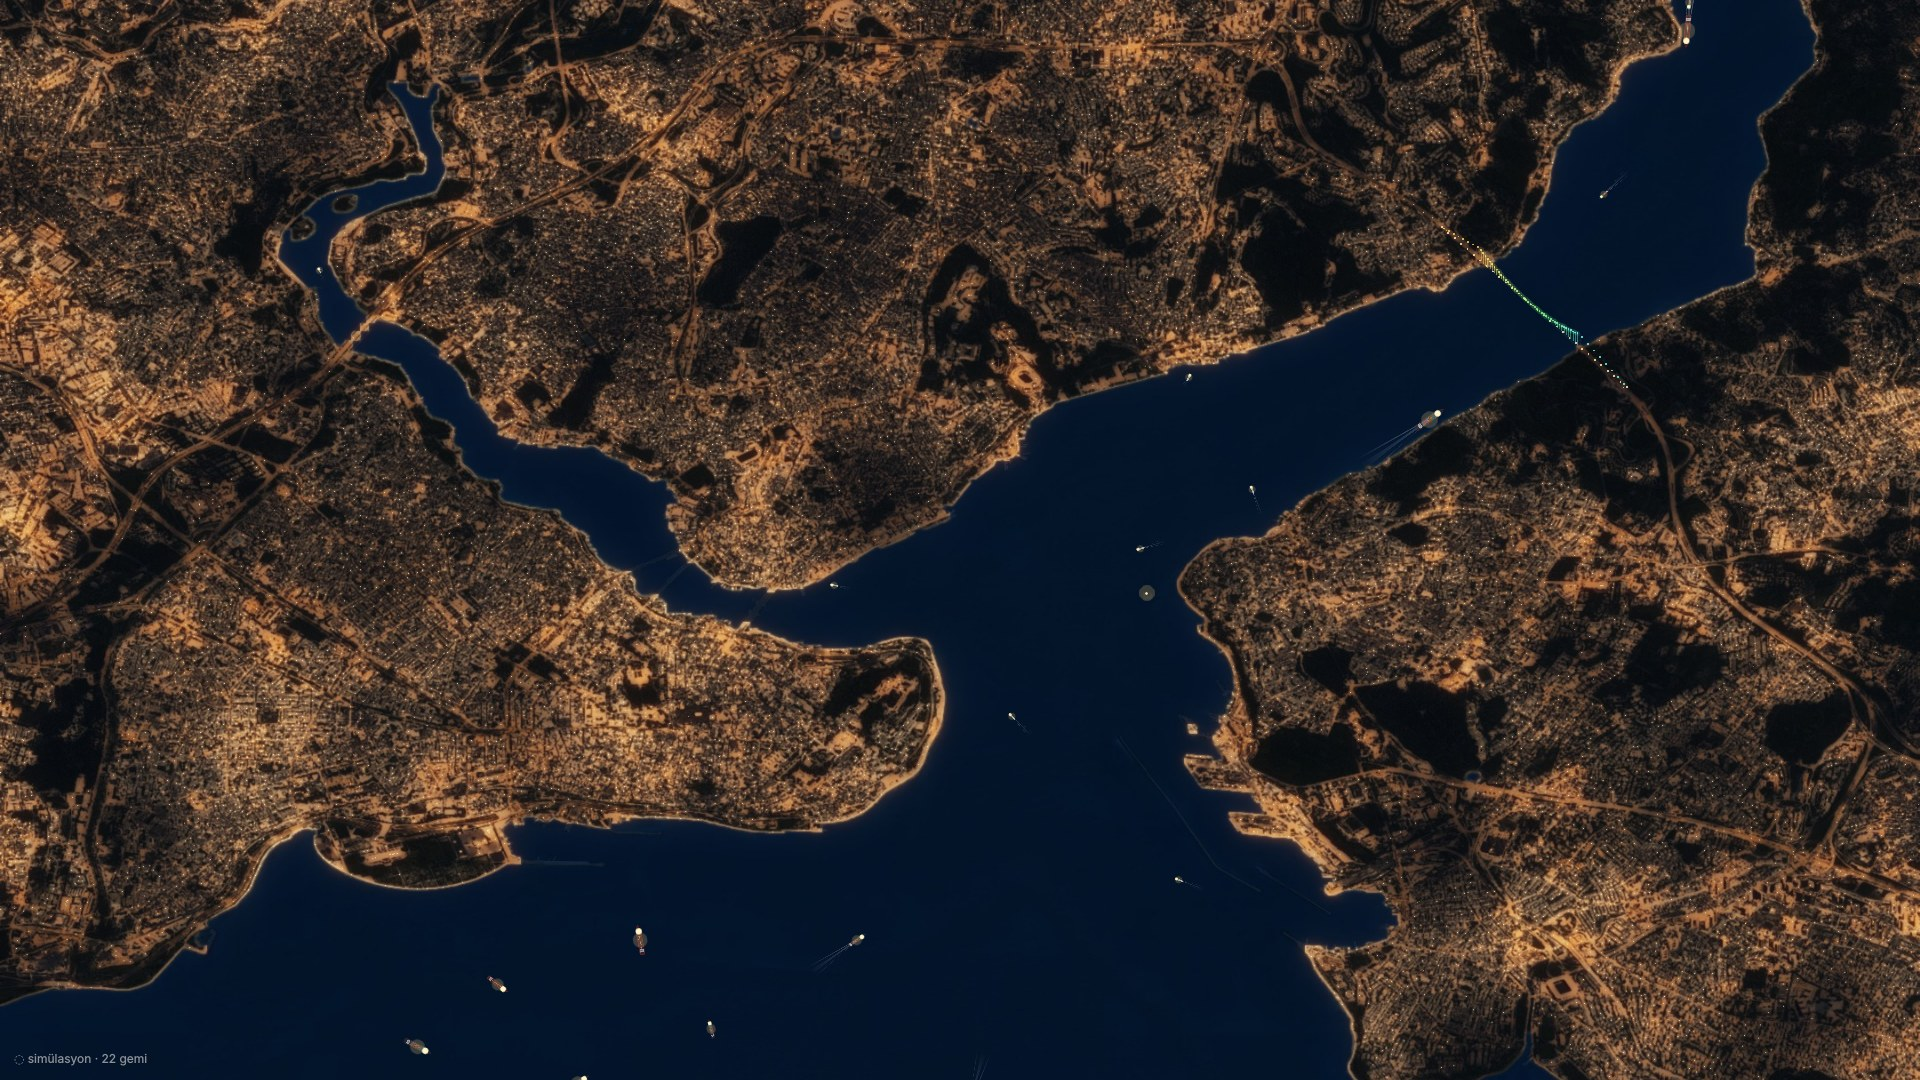
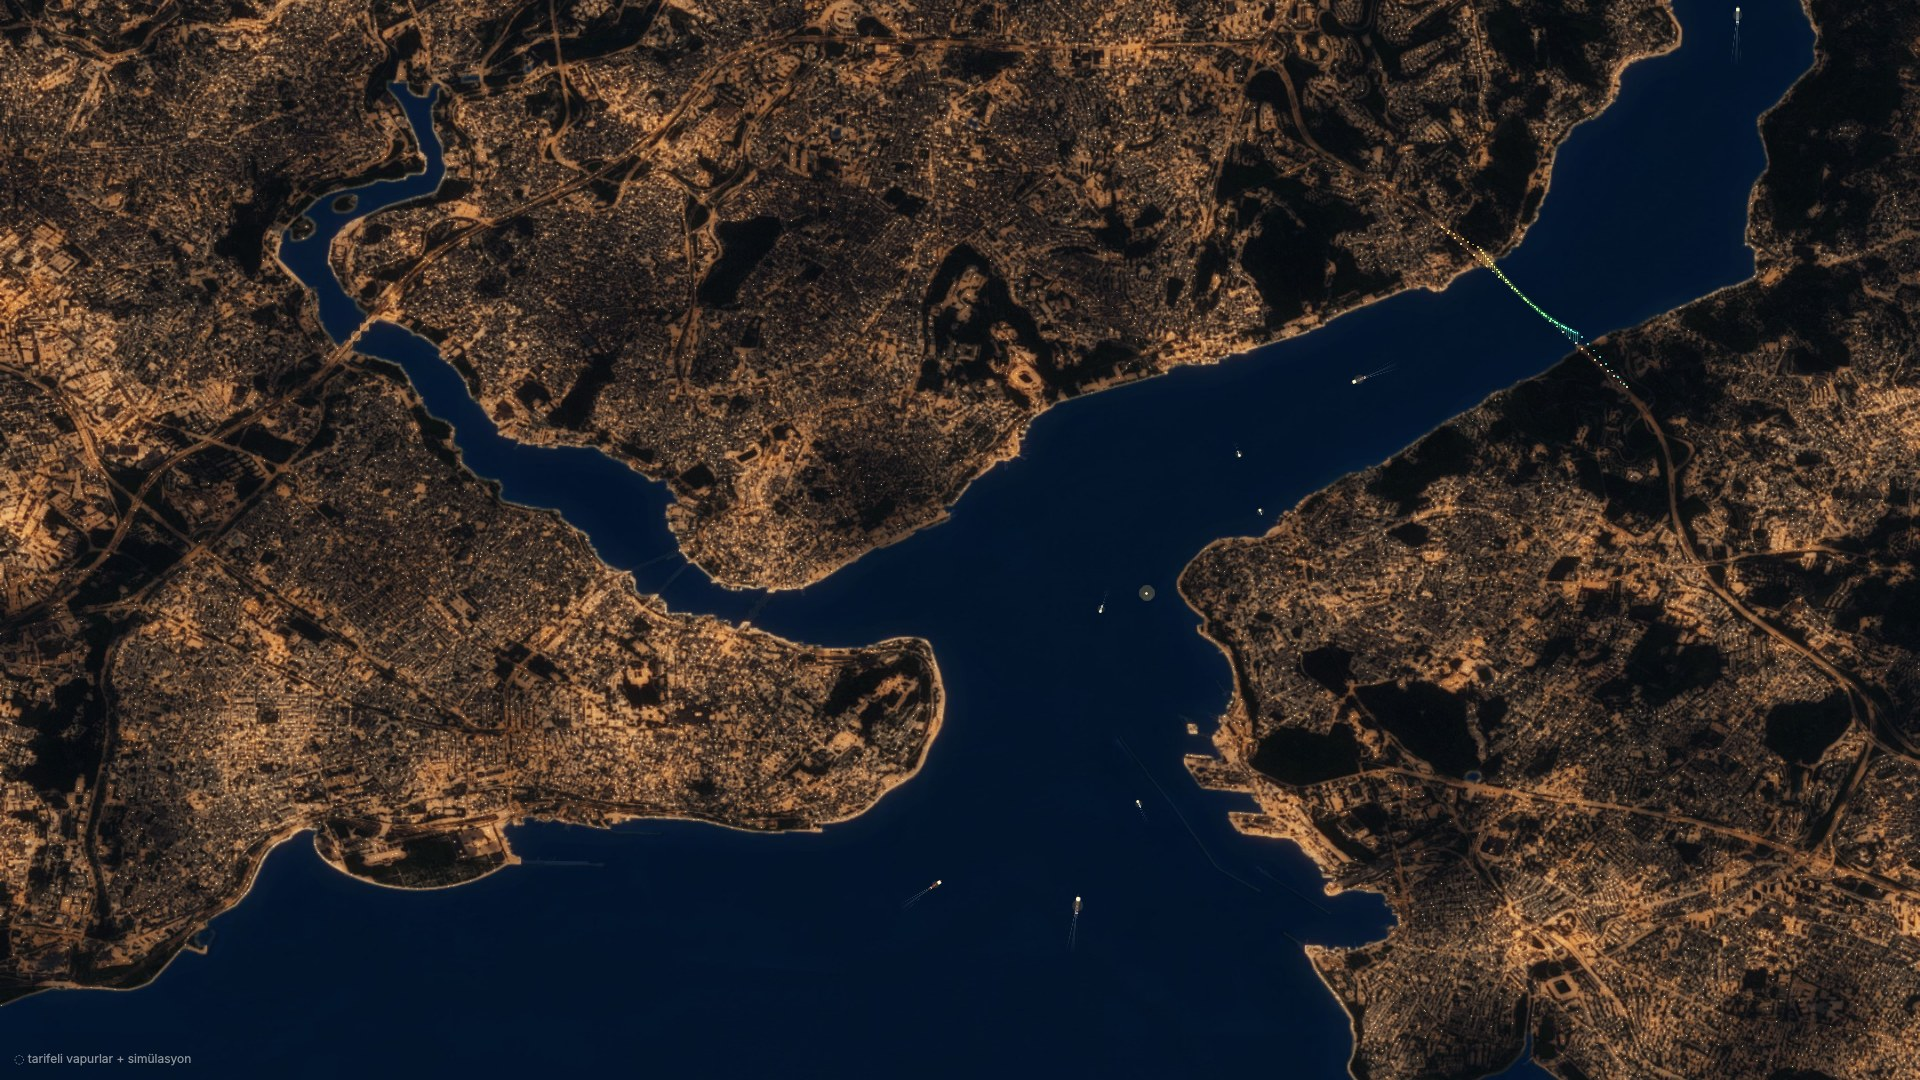
Güneşe göre gece geçişi, saate göre sönen şehir ışıkları

diff --git a/plasmoid/contents/ui/Scene.qml b/plasmoid/contents/ui/Scene.qml
@@ -1,5 +1,6 @@
 import QtQuick
 import "geo.js" as Geo
+import "sun.js" as Sun
 
 // Saf QtQuick sahnesi: Plasma'dan bagimsiz, test edilebilir.
 Item {
@@ -26,17 +27,17 @@ Item {
     property var ships: ({})          // id -> Ship item
     property real serverOffset: 0     // localNow - serverNow (sn)
 
-    // gece/gunduz: 0 = gunduz, 1 = tam gece
+    // gece/gunduz: 0 = gunduz, 1 = tam gece (gunesin gercek yuksekligine gore)
     property real night: 0
+    property real eveningOn: 1   // aksam isiklari (gece yarisindan sonra soner)
+    property real lateOn: 1      // gec saat isiklari
+    property var debugDate: null // test icin sabit saat
     function updateNight() {
+        var d = debugDate ? debugDate : new Date()
         if (!nightTint) { night = 0; return }
-        var d = new Date(), h = d.getHours() + d.getMinutes() / 60
-        // Istanbul icin kaba gun dogumu/batimi: 06:30-19:00, 1 saatlik gecis
-        var n = 0
-        if (h < 5.5 || h > 20) n = 1
-        else if (h < 6.5) n = 6.5 - h
-        else if (h > 19) n = h - 19
-        night = Math.max(0, Math.min(1, n))
+        night = Sun.nightFactor(d)
+        eveningOn = Sun.eveningLights(d)
+        lateOn = Sun.lateLights(d)
     }
 
     Rectangle { anchors.fill: parent; color: "#0d3b55" }
@@ -67,6 +68,21 @@ Item {
             asynchronous: true
             cache: false
             smooth: true
+        }
+        // saate gore sonen bina isiklari
+        Image {
+            anchors.fill: parent
+            source: scene.night > 0.01 ? Qt.resolvedUrl("../images/lights_evening.png") : ""
+            opacity: scene.night * scene.eveningOn
+            visible: opacity > 0.01
+            asynchronous: true; cache: false; smooth: true
+        }
+        Image {
+            anchors.fill: parent
+            source: scene.night > 0.01 ? Qt.resolvedUrl("../images/lights_late.png") : ""
+            opacity: scene.night * scene.lateOn
+            visible: opacity > 0.01
+            asynchronous: true; cache: false; smooth: true
         }
         // Kiz Kulesi
         Rectangle {
@@ -155,6 +171,6 @@ Item {
 
     Timer { interval: scene.pollMs; running: scene.running; repeat: true; triggeredOnStart: true; onTriggered: scene.poll() }
     Timer { interval: Math.round(1000 / Math.max(1, scene.fps)); running: scene.running; repeat: true; onTriggered: scene.frame() }
-    Timer { interval: 60000; running: true; repeat: true; triggeredOnStart: true; onTriggered: scene.updateNight() }
+    Timer { interval: 30000; running: true; repeat: true; triggeredOnStart: true; onTriggered: scene.updateNight() }
     onNightTintChanged: updateNight()
 }

diff --git a/plasmoid/contents/ui/sun.js b/plasmoid/contents/ui/sun.js
@@ -1,0 +1,55 @@
+.pragma library
+// Gunes yuksekligi (NOAA yaklasimi) ve saate gore isik programi. Istanbul: 41.02 K, 28.98 D
+var LAT = 41.02, LON = 28.98;
+
+function sunElevation(date) {
+    var rad = Math.PI / 180;
+    var y0 = Date.UTC(date.getUTCFullYear(), 0, 1);
+    var hourUTC = date.getUTCHours() + date.getUTCMinutes() / 60 + date.getUTCSeconds() / 3600;
+    var doy0 = Math.floor((date.getTime() - y0) / 86400000);
+    var g = 2 * Math.PI / 365 * (doy0 + (hourUTC - 12) / 24);
+    var eqt = 229.18 * (0.000075 + 0.001868 * Math.cos(g) - 0.032077 * Math.sin(g)
+                        - 0.014615 * Math.cos(2 * g) - 0.040849 * Math.sin(2 * g));
+    var decl = 0.006918 - 0.399912 * Math.cos(g) + 0.070257 * Math.sin(g) - 0.006758 * Math.cos(2 * g)
+             + 0.000907 * Math.sin(2 * g) - 0.002697 * Math.cos(3 * g) + 0.00148 * Math.sin(3 * g);
+    var tst = hourUTC * 60 + eqt + 4 * LON;
+    var ha = (tst / 4 - 180) * rad;
+    var cz = Math.sin(LAT * rad) * Math.sin(decl) + Math.cos(LAT * rad) * Math.cos(decl) * Math.cos(ha);
+    return 90 - Math.acos(Math.max(-1, Math.min(1, cz))) / rad;
+}
+
+// 0 = gunduz, 1 = gece. Gunes ufkun 1 derece ustunden sivil alacakaranliga (-6) kadar yumusak gecis.
+function nightFactor(date) {
+    var e = sunElevation(date);
+    return Math.max(0, Math.min(1, (1 - e) / 7));
+}
+
+function lerp(t, t0, t1, v0, v1) {
+    if (t <= t0) return v0;
+    if (t >= t1) return v1;
+    return v0 + (v1 - v0) * (t - t0) / (t1 - t0);
+}
+
+// Gece zaman ekseni: 12:00 -> 12 ... 23:59 -> 24, 03:00 -> 27, 06:00 -> 30
+// Cuma ve Cumartesi geceleri sehir 1 saat gec yatar.
+function nightClock(date) {
+    var h = date.getHours() + date.getMinutes() / 60;
+    var t = h < 12 ? h + 24 : h;
+    var eveningDay = h < 12 ? (date.getDay() + 6) % 7 : date.getDay();   // 0=Paz ... 5=Cum, 6=Cmt
+    var weekend = (eveningDay === 5 || eveningDay === 6);
+    return { t: t, shift: weekend ? 1 : 0 };
+}
+
+// Aksam isiklari (bina pencerelerinin cogu): 23:00'ten sonra soner, sabah 06:00 civari yeniden yanar
+function eveningLights(date) {
+    var c = nightClock(date), t = c.t - c.shift;
+    if (t < 29.5) return lerp(t, 23, 25.5, 1, 0.12);
+    return lerp(t, 29.5, 30.75, 0.12, 0.7);
+}
+
+// Gec saat isiklari: 00:30'dan sonra azalir, 03:00'te %30'a iner, sabah artar
+function lateLights(date) {
+    var c = nightClock(date), t = c.t - c.shift;
+    if (t < 29.5) return lerp(t, 24.5, 27, 1, 0.3);
+    return lerp(t, 29.5, 30.75, 0.3, 0.9);
+}

diff --git a/tools/prepare_images.py b/tools/prepare_images.py
@@ -2,7 +2,7 @@
 """
 Isometric Istanbul ekran goruntusunden duvar kagidi gorsellerini uretir:
   1) gomulu gemileri ve dumen sularini siler  -> bosphorus.jpg
-  2) sehir isikli gece surumunu olusturur     -> bosphorus_night.jpg
+  2) gece tabani + saate gore sonen isik katmanlari -> bosphorus_night.jpg, lights_evening.png, lights_late.png
 
 Kullanim:  python3 tools/prepare_images.py ekran_goruntusu.png
 Gereken:   pip install opencv-python numpy
@@ -110,26 +110,43 @@ def make_night(clean):
     sodium = np.array([0.08, 0.42, 1.00], np.float32)
     mixc = np.clip(0.35 + greyish * 0.5 + 0.4 * (n2 - 0.5), 0, 1)[...,None]
     col = mixc * sodium + (1 - mixc) * warm
-    E = m[...,None] * col * 1.35 + m_shore[...,None] * warm
-    # parlak noktalar: sokak isiginin yerel tepe noktalari
+    ws = np.clip(greyish, 0, 1) ** 2.5                      # yol benzeri -> sokak lambasi
+    # bina isiklari: kucuk kumeler halinde uc gruba ayrilir
+    g = blur(rng.random((H, W)).astype(np.float32), 2.5)
+    g = (g.argsort(axis=None).argsort().reshape(H, W) / (H * W)).astype(np.float32)   # duzgun dagilim
+    gA = (g < 0.55).astype(np.float32)          # aksam isiklari: gece yarisindan sonra soner
+    gB = ((g >= 0.55) & (g < 0.85)).astype(np.float32)   # gec saatlere kadar
+    gC = (g >= 0.85).astype(np.float32)         # butun gece yanan
+    mb = (m * (1 - ws))[..., None] * col * 1.35
+    E_street = (m * ws)[..., None] * col * 1.35 + m_shore[..., None] * warm
     mx = cv2.dilate(streets, np.ones((7,7),np.uint8))
     peaks = (streets >= mx) & (streets > 0.5) & (dark > 0.5) & (rng.random((H, W)) < 0.6 * np.clip(cl, 0, 1))
-    E[peaks] += np.array([0.55, 0.85, 1.0]) * 1.4
-    # pencere noktaciklari (az)
+    E_street[peaks] += np.array([0.55, 0.85, 1.0]) * 1.4
     pts = (rng.random((H, W)) < urban * dark * 0.004 * cl)
-    E[pts] += np.array([0.7, 0.85, 1.0]) * rng.uniform(0.5, 1, (pts.sum(), 1))
+    win = np.zeros_like(E_street); win[pts] = np.array([0.7, 0.85, 1.0]) * rng.uniform(0.5, 1, (pts.sum(), 1))
+    E_A = (mb + win) * gA[..., None]
+    E_B = (mb + win) * gB[..., None]
+    E_C = (mb + win) * gC[..., None] + E_street
 
-    hi = np.clip(E - 0.35, 0, None)
-    glow = blur(E, 1.5) * 0.35 + blur(hi, 6) * 1.2 + blur(E, 18) * 0.35
-
-    # gece tabani: koyu, mavimsi
+    def glow_of(E):
+        hi = np.clip(E - 0.35, 0, None)
+        return blur(E, 1.5) * 0.35 + blur(hi, 6) * 1.2 + blur(E, 18) * 0.35
+    wf = np.where(water[...,None] > 0, 0.55, 0.45)
     base = img * np.array([0.075, 0.055, 0.045], np.float32) + np.array([0.03, 0.015, 0.008], np.float32)
     base[water > 0] = img[water > 0] * np.array([0.19, 0.11, 0.055]) + np.array([0.04, 0.02, 0.008])
-    out = base + E * 0.9 + glow * np.where(water[...,None] > 0, 0.55, 0.45)
-    # hafif ton egrisi
-    out = 1 - np.exp(-out * 1.35)
-    out = np.clip(out, 0, 1)
-    return (out * 255).astype(np.uint8)
+    tone = lambda x: np.clip(1 - np.exp(-x * 1.35), 0, 1)
+    lin_C = base + E_C * 0.9 + glow_of(E_C) * wf
+    B0 = tone(lin_C)
+    def overlay(Ex):
+        F = tone(lin_C + Ex * 0.9 + glow_of(Ex) * wf)
+        d = np.clip(F - B0, 0, None)
+        a = np.clip((d / np.maximum(1 - B0, 1e-3)).max(axis=2), 0, 1)
+        c = np.clip(B0 + d / np.maximum(a[..., None], 1e-3), 0, 1)
+        c[a < 1e-3] = 0
+        return np.dstack([c * 255, a * 255]).round().astype(np.uint8), F
+    oA, FA = overlay(E_A)
+    oB, FB = overlay(E_B)
+    return (B0 * 255).astype(np.uint8), oA, oB
 
 
 def main():
@@ -149,7 +166,10 @@ def main():
     print(f"{n} gemi silindi")
     cv2.imwrite(os.path.join(out_dir, "bosphorus.jpg"), clean, [cv2.IMWRITE_JPEG_QUALITY, 93])
     print("gece gorseli uretiliyor...")
-    cv2.imwrite(os.path.join(out_dir, "bosphorus_night.jpg"), make_night(clean), [cv2.IMWRITE_JPEG_QUALITY, 92])
+    base, evening, late = make_night(clean)
+    cv2.imwrite(os.path.join(out_dir, "bosphorus_night.jpg"), base, [cv2.IMWRITE_JPEG_QUALITY, 92])
+    cv2.imwrite(os.path.join(out_dir, "lights_evening.png"), evening, [cv2.IMWRITE_PNG_COMPRESSION, 9])
+    cv2.imwrite(os.path.join(out_dir, "lights_late.png"), late, [cv2.IMWRITE_PNG_COMPRESSION, 9])
     print("tamam ->", os.path.normpath(out_dir))
 
 if __name__ == "__main__":

diff --git a/README.md b/README.md
@@ -7,7 +7,11 @@ konumlarıyla çizilir.
 
 | Gündüz | Gece |
 |---|---|
-| ![Gündüz](docs/gunduz.jpg) | ![Gece](docs/gece.jpg) |
+| ![Gündüz](docs/gunduz.jpg) | ![Gece 21:00](docs/gece.jpg) |
+
+| Gece 03:00 |
+|---|
+| ![Gece 03:00](docs/gece_0300.jpg) |
 
 *A live KDE Plasma 6 wallpaper of the Istanbul Bosphorus: scheduled ferries, transiting ships,
 night city lights, and real vessels from AIS when coverage is available.*
@@ -28,7 +32,11 @@ Gemi trafiği simülasyonu ─────┘     (systemd user servisi)
 - **Canlı AIS (karma mod):** [AISStream.io](https://aisstream.io) ile görüntü alanına giren gerçek
   gemiler çizilir. Gerçek veri yeterli olduğunda simülasyon kendiliğinden çekilir.
 - **Gece görünümü:** Gündüz görselindeki sokak dokusundan üretilmiş şehir ışıkları. Köprüde LED
-  aydınlatma, gemilerde seyir fenerleri. Akşam 19:00 civarında başlayan yumuşak bir geçişle açılır.
+  aydınlatma, gemilerde seyir fenerleri.
+- **Gerçek gün döngüsü:** Gece, güneşin İstanbul'daki gerçek yüksekliğine göre gelir; gün batımından
+  sivil alacakaranlığın sonuna kadar yumuşak bir geçiş olur, yıl boyunca kendiliğinden kayar.
+  Bina ışıkları 23:00'ten sonra sönmeye başlar, 03:00'te en azdır (sokak lambaları yanık kalır),
+  sabah yeniden artar. Cuma ve Cumartesi geceleri şehir bir saat geç yatar.
 - **Hafif:** Chromium kullanmaz; Plasma'nın kendi QML motorunda varsayılan 10 FPS ile çalışır.
   Servis yalnızca Python standart kütüphanesini kullanır; canlı mod için `websockets` gerekir.
 
